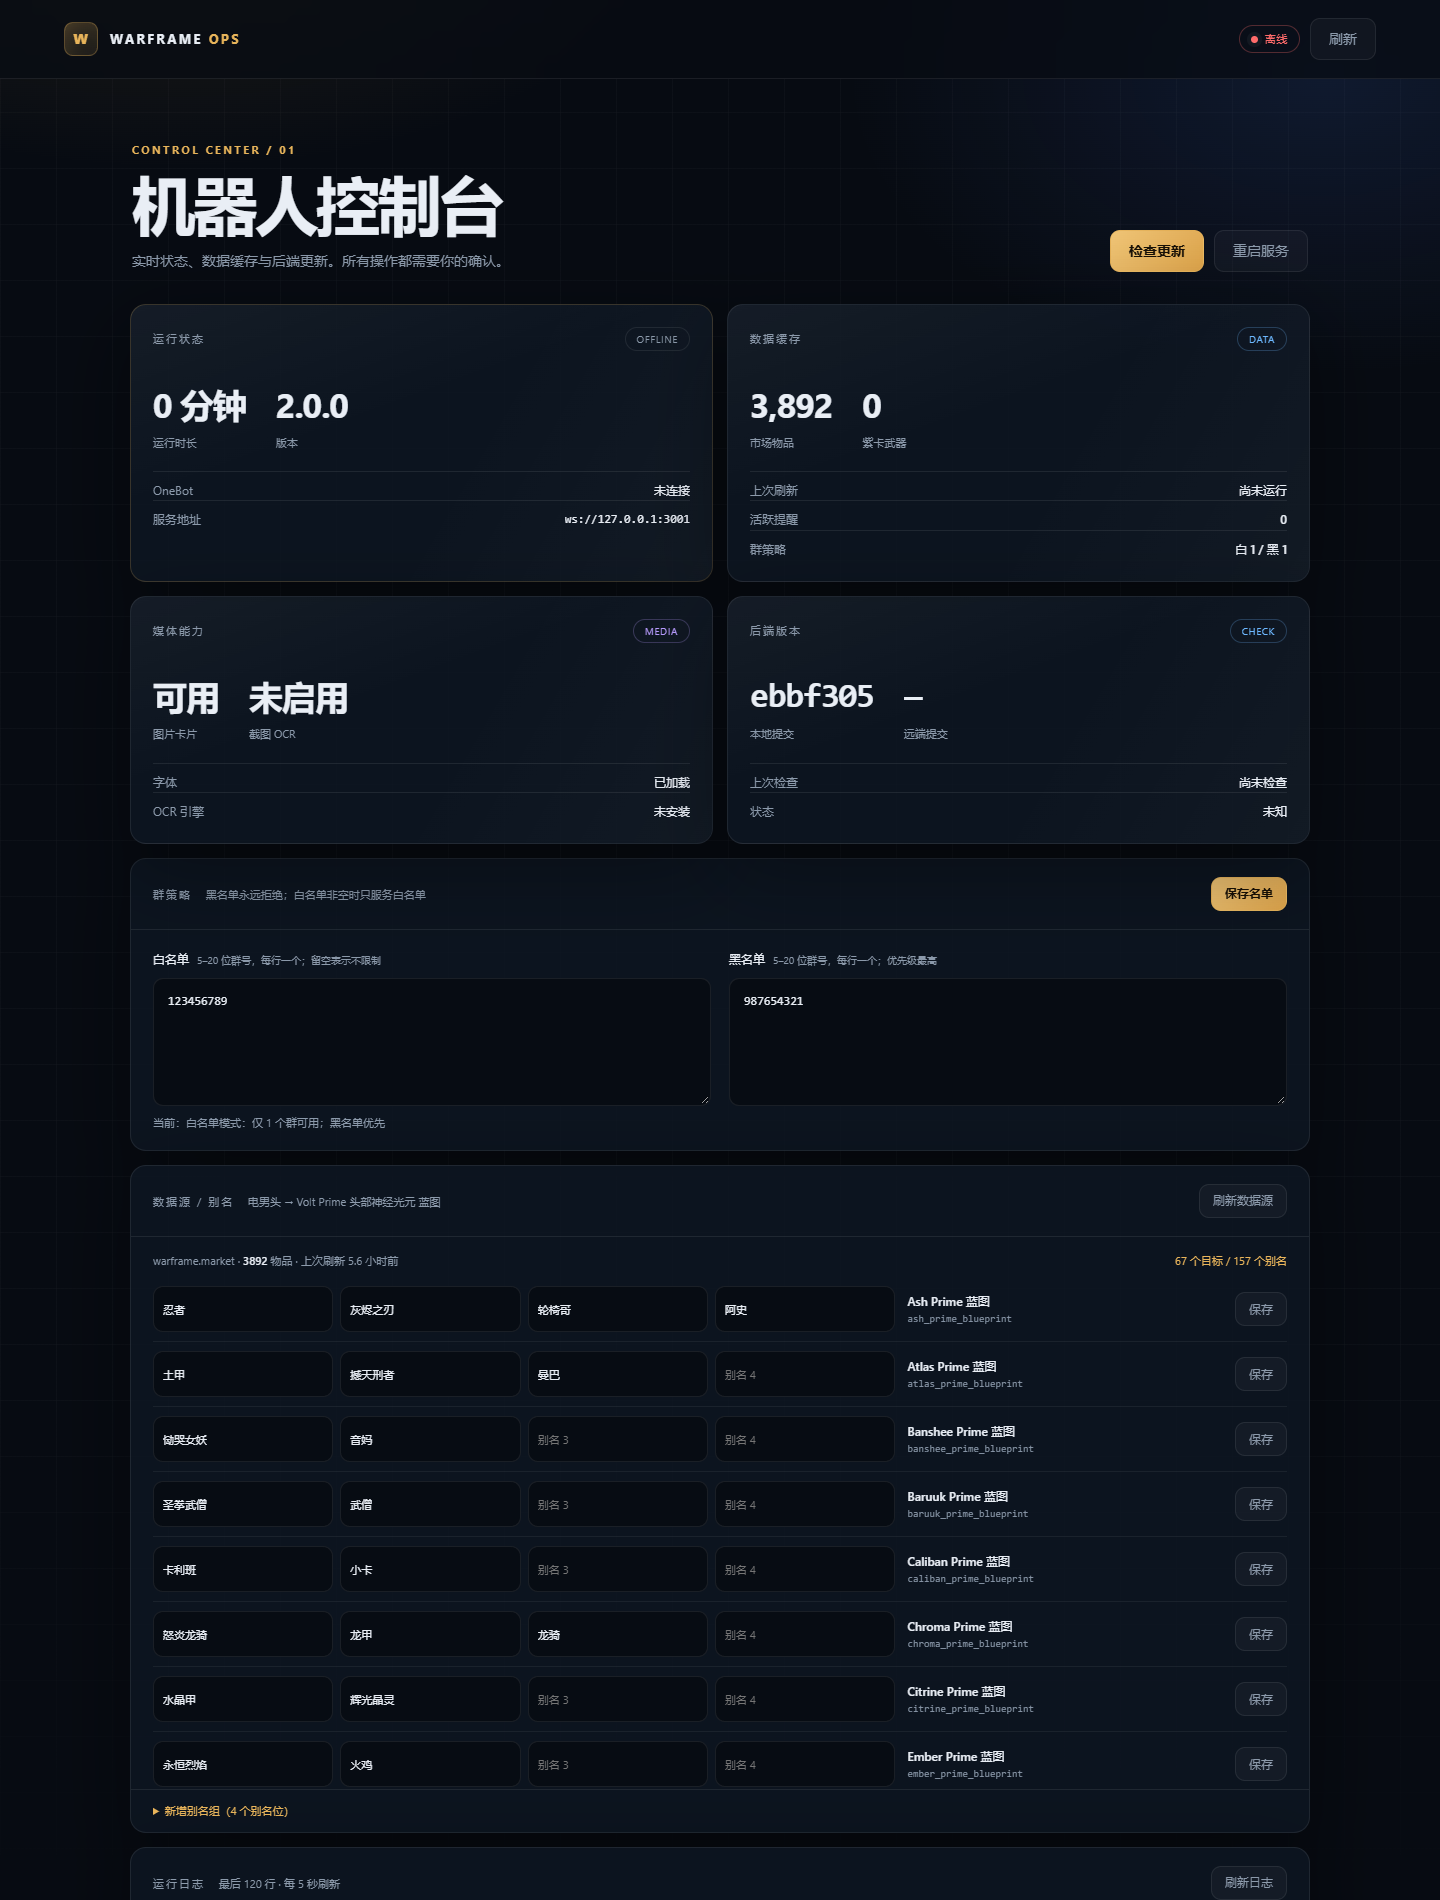
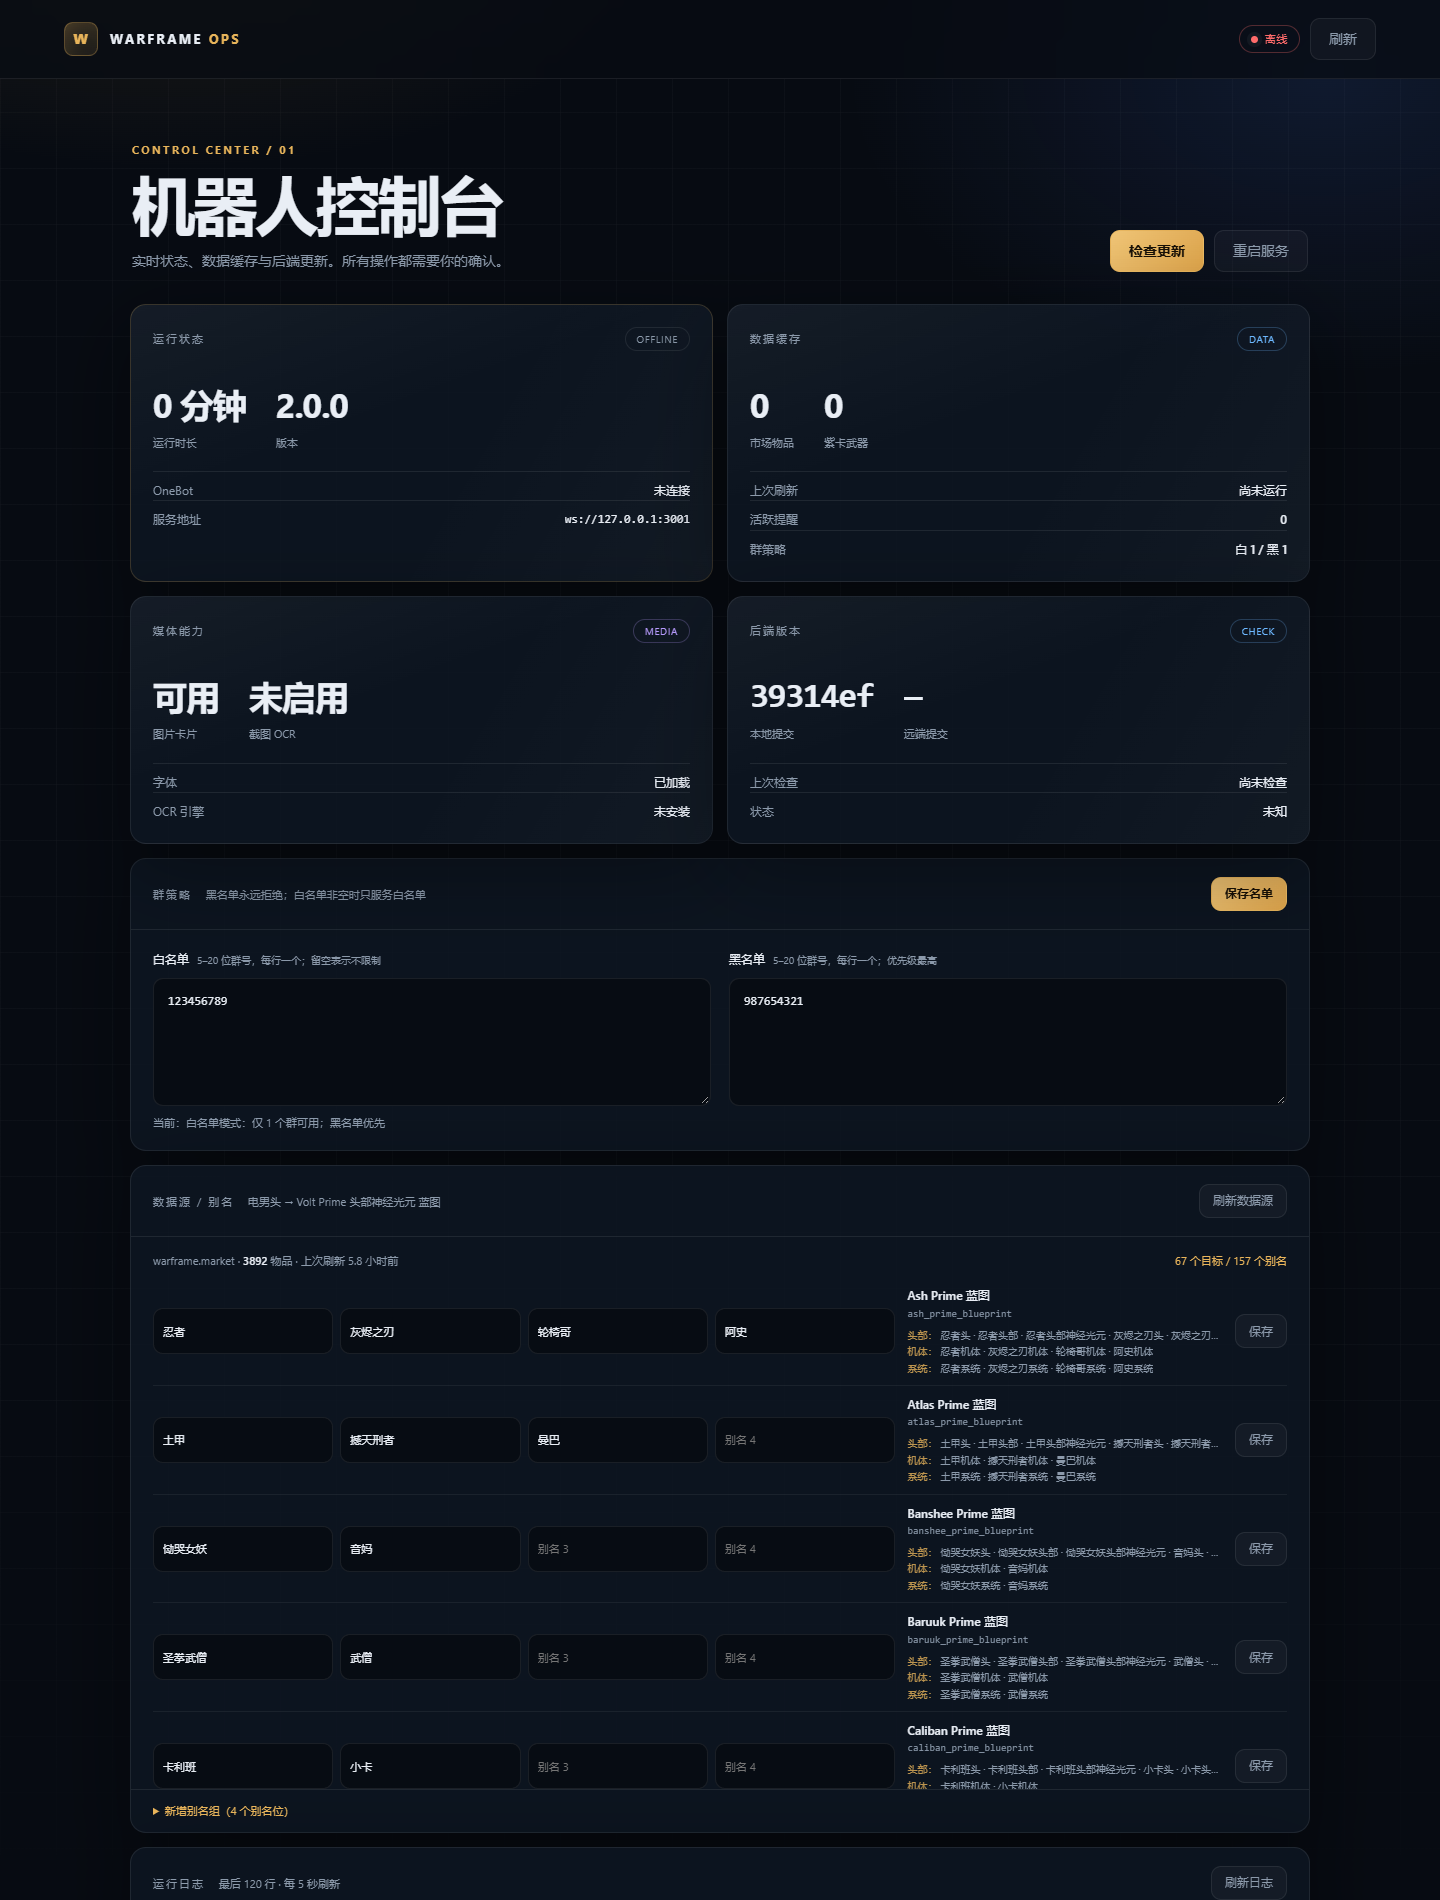
Show generated component aliases under each warframe

diff --git a/web/app.js b/web/app.js
@@ -399,6 +399,24 @@
       const slug = document.createElement("small");
       slug.textContent = group.slug;
       target.append(name, slug);
+      if ((group.parts || []).length) {
+        const parts = document.createElement("div");
+        parts.className = "alias-parts";
+        group.parts.forEach((part) => {
+          const line = document.createElement("div");
+          const label = document.createElement("span");
+          label.textContent = part.label + "：";
+          const values = document.createElement("code");
+          const aliases = part.aliases || [];
+          values.textContent = aliases.length
+            ? aliases.slice(0, 5).join(" · ") + (aliases.length > 5 ? " …" : "")
+            : "（未生成）";
+          values.title = aliases.join("、");
+          line.append(label, values);
+          parts.appendChild(line);
+        });
+        target.appendChild(parts);
+      }
 
       const save = document.createElement("button");
       save.type = "button";

diff --git a/web/style.css b/web/style.css
@@ -219,6 +219,10 @@ a { color: inherit; text-decoration: none; }
 .alias-target { min-width: 0; }
 .alias-target b { display: block; color: var(--text); font-size: 12px; font-weight: 500; overflow: hidden; text-overflow: ellipsis; white-space: nowrap; }
 .alias-target small { display: block; color: var(--muted); font-family: "Cascadia Code", Consolas, monospace; font-size: 10px; overflow: hidden; text-overflow: ellipsis; white-space: nowrap; }
+.alias-parts { margin-top: 5px; color: var(--muted); font-size: 10px; line-height: 1.65; }
+.alias-parts div { display: flex; gap: 3px; min-width: 0; }
+.alias-parts span { flex: 0 0 auto; color: var(--gold); opacity: .8; }
+.alias-parts code { color: var(--muted); font-family: inherit; overflow: hidden; text-overflow: ellipsis; white-space: nowrap; }
 .alias-new { border-top: 1px solid var(--line); }
 .alias-new summary { padding: 12px 22px; color: var(--gold); font-size: 11px; cursor: pointer; }
 .alias-new[open] summary { border-bottom: 1px solid var(--line); }

diff --git a/bot/app.py b/bot/app.py
@@ -465,6 +465,29 @@ class BotApp:
             group["aliases"].append(entry["alias"])
             if entry.get("builtin"):
                 group["builtin"].append(entry["alias"])
+        if index is not None:
+            for group in groups.values():
+                slug = group["slug"]
+                if not slug.endswith("_prime_blueprint"):
+                    continue
+                stem = slug[:-len("_blueprint")]
+                parts = []
+                for label, part in (("头部", "neuroptics"),
+                                    ("机体", "chassis"),
+                                    ("系统", "systems")):
+                    component = "%s_%s_blueprint" % (stem, part)
+                    if component not in index.by_slug:
+                        continue
+                    aliases = sorted(alias for alias, target in index.aliases.items()
+                                     if target == component)
+                    item = index.get(component)
+                    parts.append({
+                        "label": label,
+                        "slug": component,
+                        "name": item.name if item else "",
+                        "aliases": aliases,
+                    })
+                group["parts"] = parts
         source = self._market_source(index)
         if error:
             source["error"] = error

diff --git a/bot/market.py b/bot/market.py
@@ -336,6 +336,16 @@ class ItemIndex:
         for alias_key, slug in list(self.aliases.items()):
             if not slug.endswith("_blueprint"):
                 continue
+            # 已经是部件蓝图时不要再展开“头/机体/系统”，避免 电男头p 之类。
+            if any(slug.endswith(suffix) for suffix in (
+                    "_neuroptics_blueprint", "_chassis_blueprint",
+                    "_systems_blueprint", "_barrel_blueprint",
+                    "_receiver_blueprint", "_stock_blueprint",
+                    "_blade_blueprint", "_handle_blueprint",
+                    "_gauntlet_blueprint", "_upper_limb_blueprint",
+                    "_lower_limb_blueprint", "_hilt_blueprint",
+                    "_ornament_blueprint", "_string_blueprint")):
+                continue
             stem = slug[:-len("_blueprint")]
             for suffix, part in part_suffixes.items():
                 component = (stem + "_blueprint" if not part
